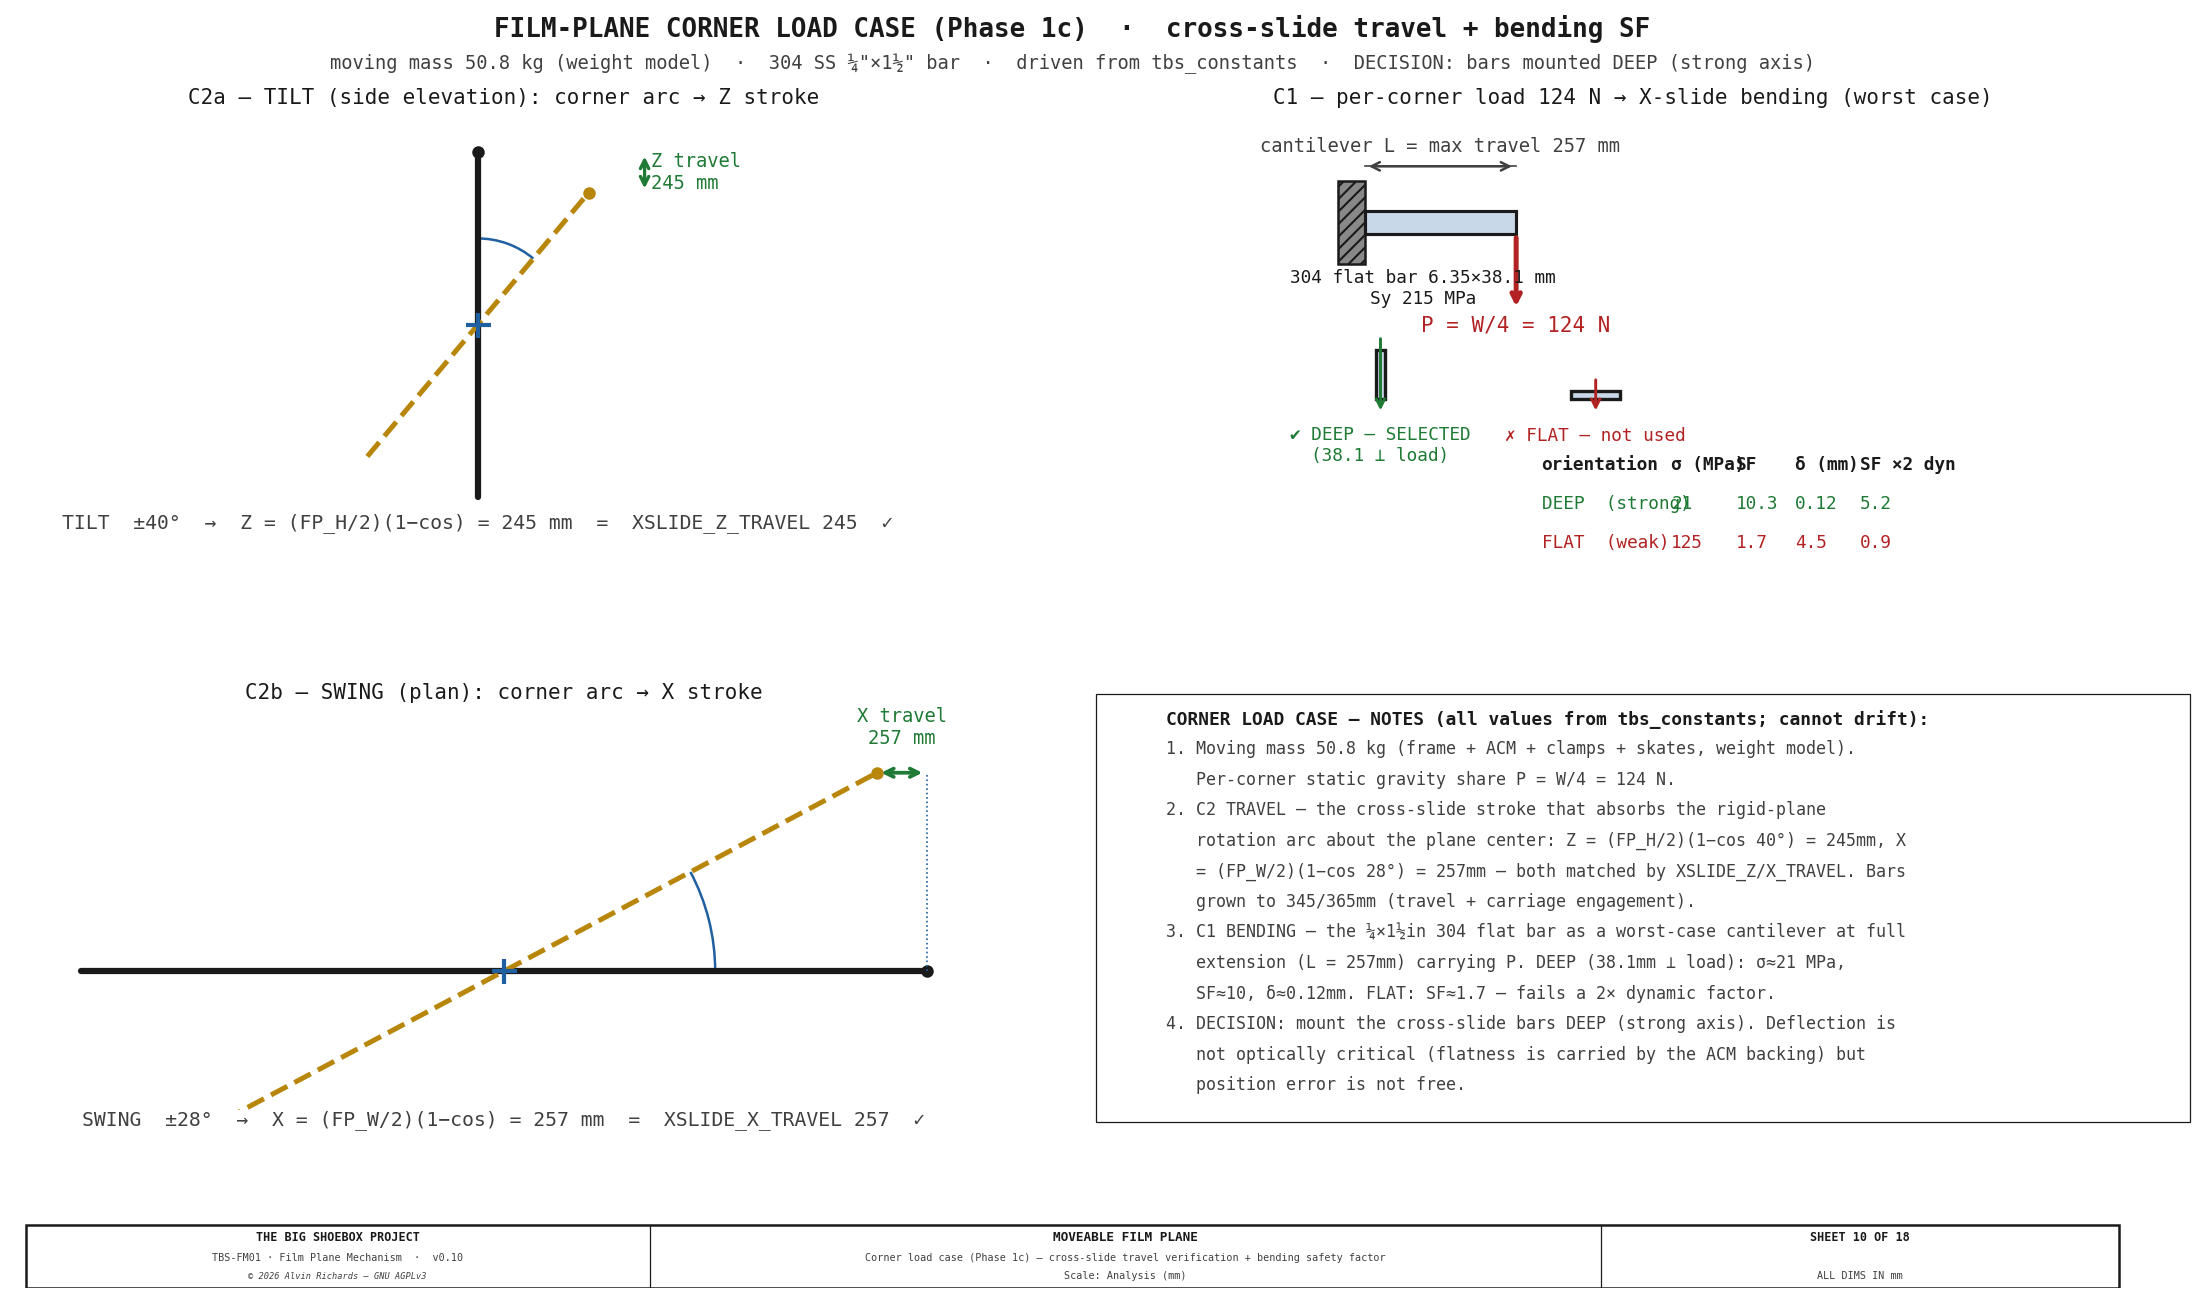
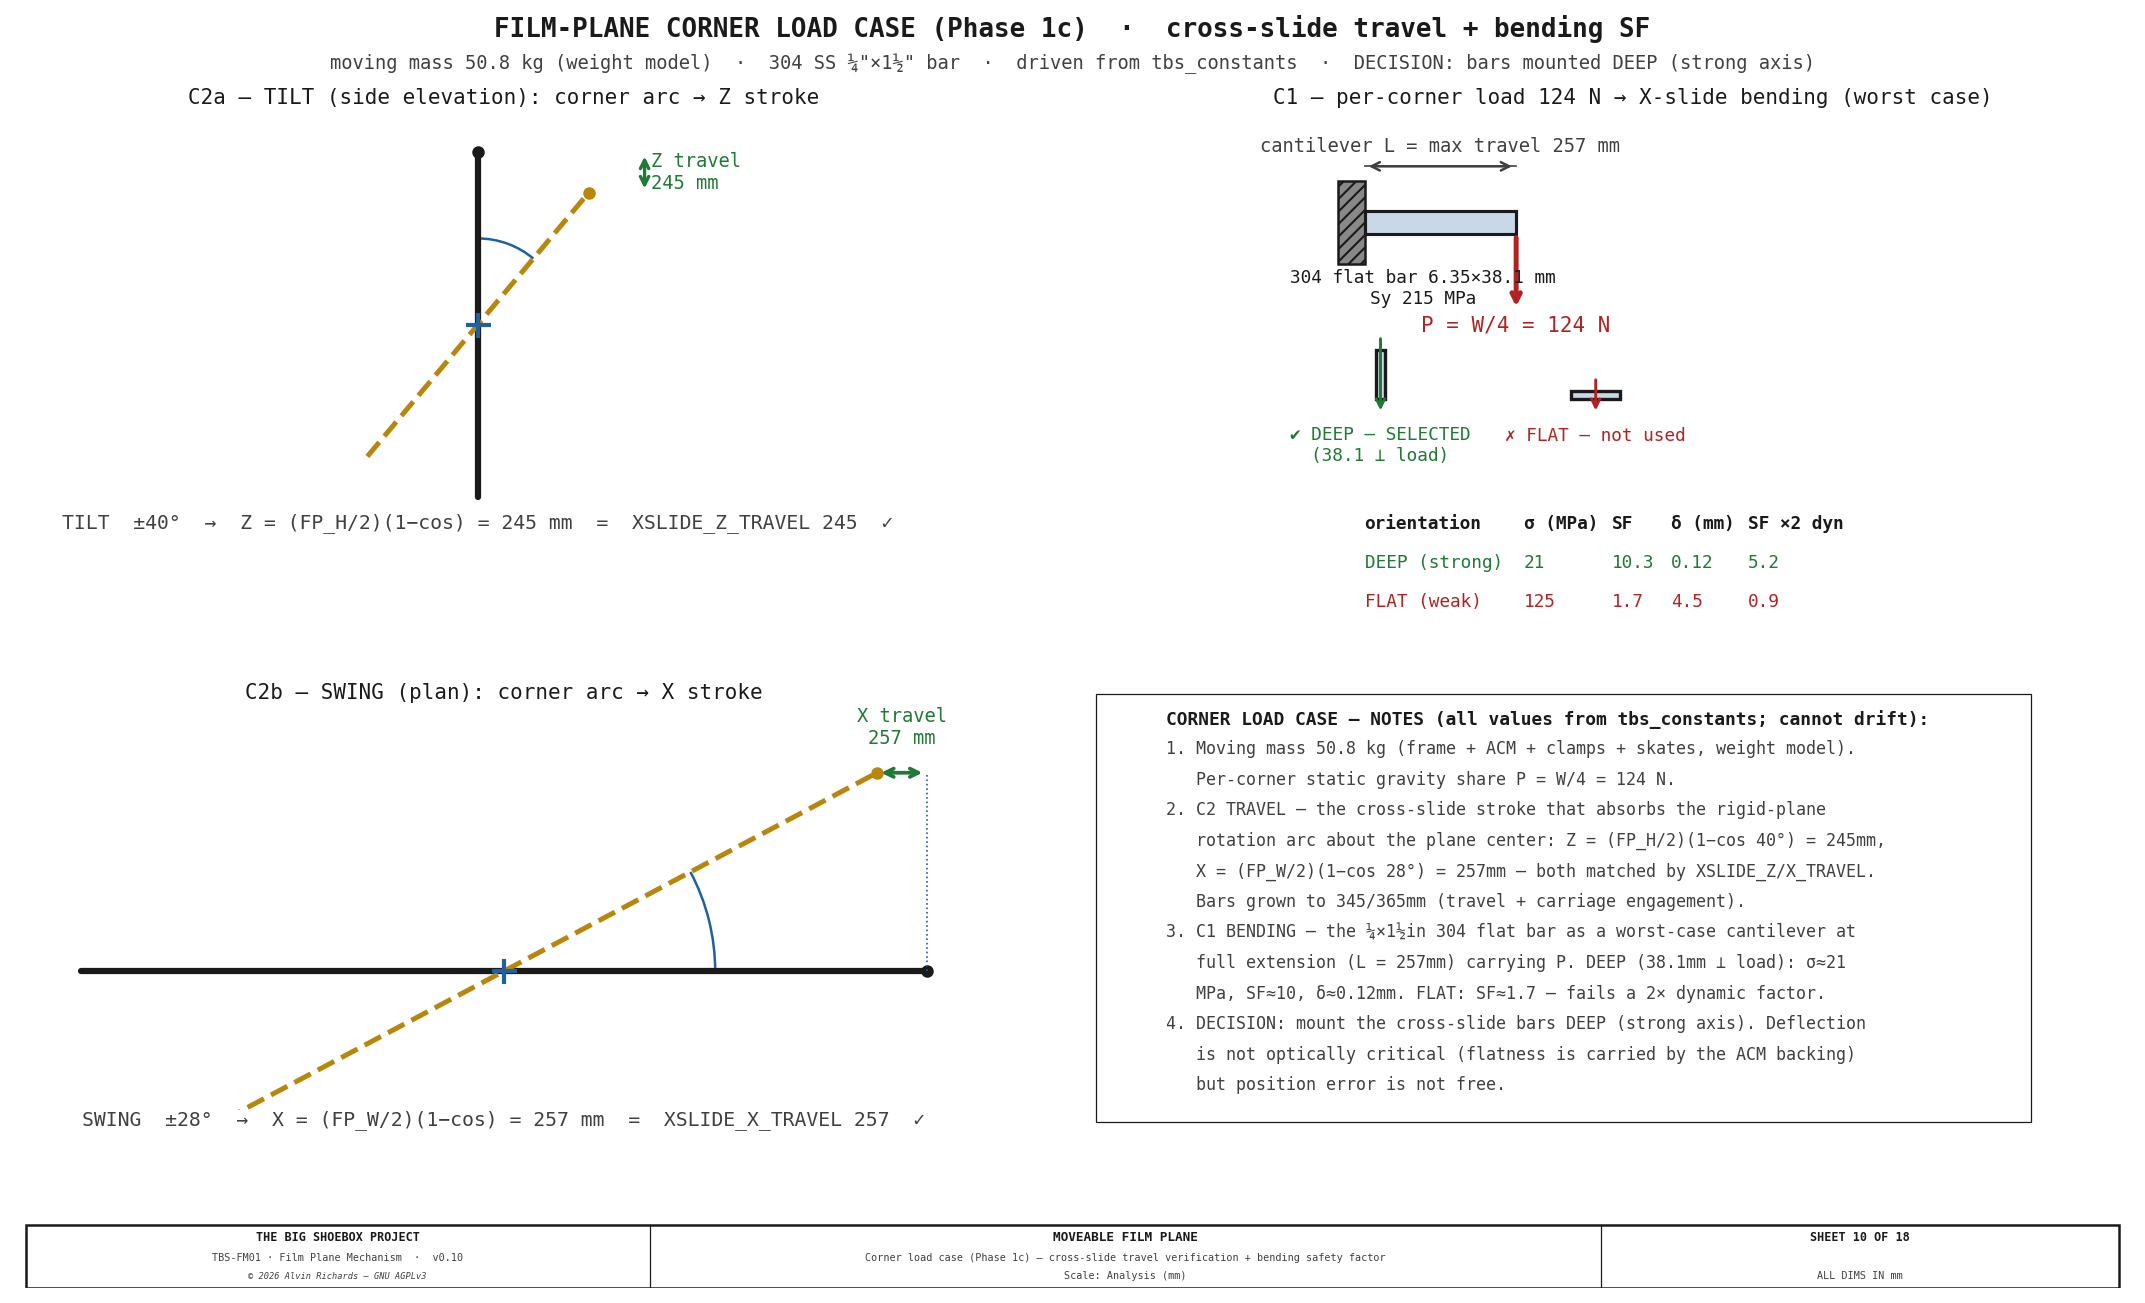
Tidy labels

diff --git a/src/generators/fp_corner_load.py b/src/generators/fp_corner_load.py
@@ -152,10 +152,10 @@ def render_png(path=None):
     section(350, -300, c.XSLIDE_BAR_W * 2.2, c.XSLIDE_BAR_T * 2.2, "✗ FLAT — not used", False)
 
     tbl = [("orientation", "σ (MPa)", "SF", "δ (mm)", "SF ×2 dyn"),
-           ("DEEP  (strong)", f"{sig_s:.0f}", f"{SY_304/sig_s:.1f}", f"{d_s:.2f}", f"{SY_304/(2*sig_s):.1f}"),
-           ("FLAT  (weak)", f"{sig_w:.0f}", f"{SY_304/sig_w:.1f}", f"{d_w:.1f}", f"{SY_304/(2*sig_w):.1f}")]
-    col_x = [300, 520, 630, 730, 840]     # orientation · σ · SF · δ · SF×2
-    ty, dy = -420, -66
+           ("DEEP (strong)", f"{sig_s:.0f}", f"{SY_304/sig_s:.1f}", f"{d_s:.2f}", f"{SY_304/(2*sig_s):.1f}"),
+           ("FLAT (weak)", f"{sig_w:.0f}", f"{SY_304/sig_w:.1f}", f"{d_w:.1f}", f"{SY_304/(2*sig_w):.1f}")]
+    col_x = [0, 270, 420, 520, 650]     # orientation · σ · SF · δ · SF×2
+    ty, dy = -520, -66
     for r, row in enumerate(tbl):
         for col_i, cell in enumerate(row):
             cc = C_OUT if r == 0 else (C_OK if "DEEP" in row[0] else C_BAD)
@@ -174,7 +174,7 @@ def render_png(path=None):
         f"3. C1 BENDING — the ¼×1½in 304 flat bar as a worst-case cantilever at full extension (L = {c.XSLIDE_X_TRAVEL}mm) carrying P. DEEP (38.1mm ⟂ load): σ≈{sig_s:.0f} MPa, SF≈{SY_304/sig_s:.0f}, δ≈{d_s:.2f}mm. FLAT: SF≈{SY_304/sig_w:.1f} — fails a 2× dynamic factor.",
         "4. DECISION: mount the cross-slide bars DEEP (strong axis). Deflection is not optically critical (flatness is carried by the ACM backing) but position error is not free.",
     ]
-    draw_notes(axN, notes, 3, 96, 7.0, fs=8, title_fs=8.6, color=C_DIM, title_color=C_OUT, font=FT, width=96, wrap=74)
+    draw_notes(axN, notes, 3, 96, 7.0, fs=8, title_fs=8.6, color=C_DIM, title_color=C_OUT, font=FT, width=80, wrap=72)
 
     fig.suptitle("FILM-PLANE CORNER LOAD CASE (Phase 1c)  ·  cross-slide travel + bending SF",
                  fontsize=12.5, fontweight="bold", color=C_OUT, y=0.955, **FT)
